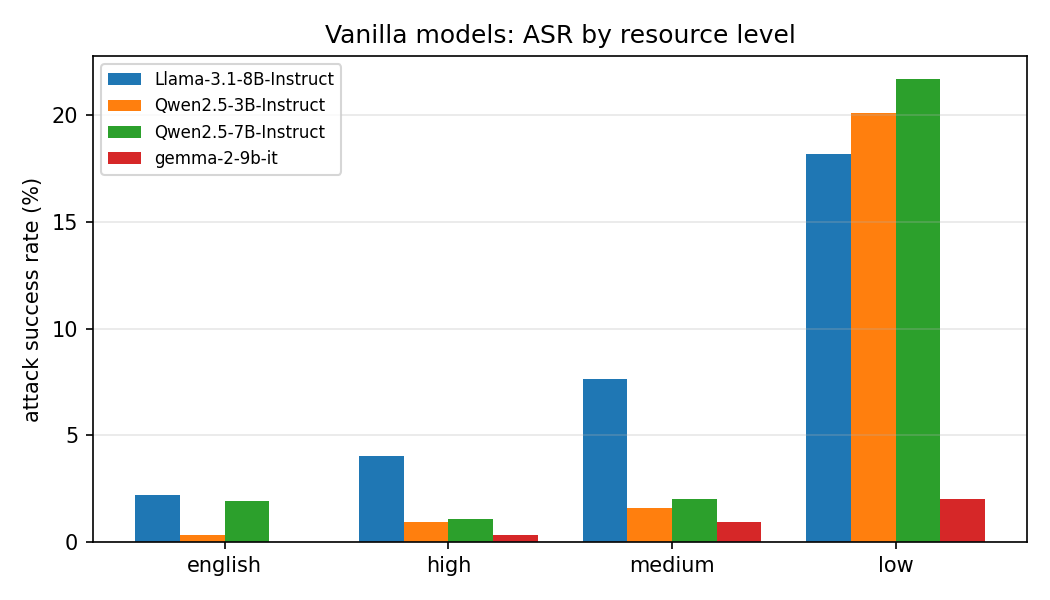
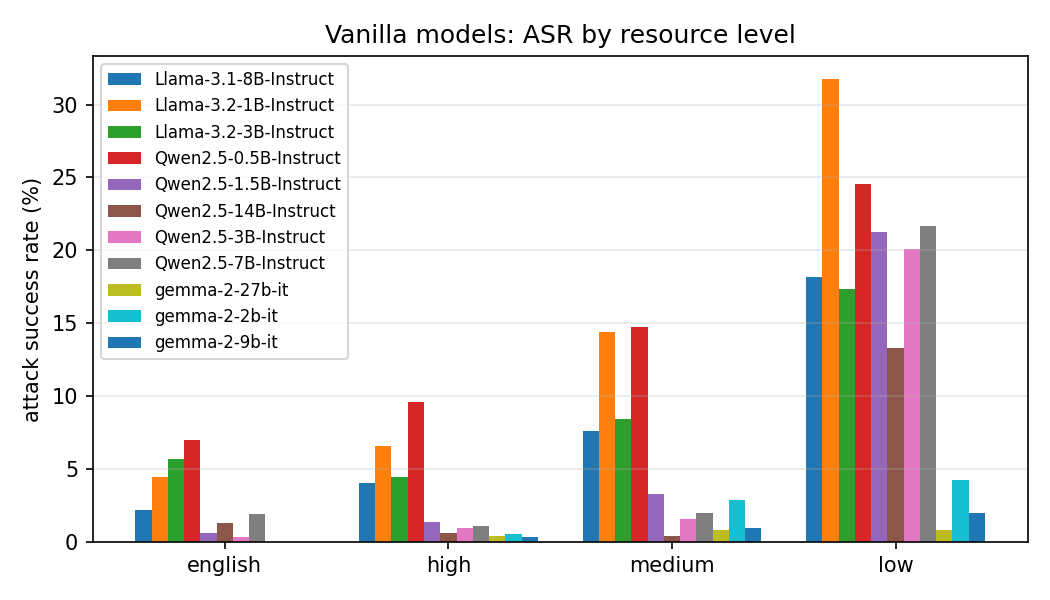
Family scaling and runtime/cost results

diff --git a/results/demo3/summary.md b/results/demo3/summary.md
@@ -7,6 +7,16 @@
 | Llama-3.1-8B-Instruct | Vanilla (no defense)  |      3150 |      2.2 |          9.9 |        4   |          7.6 |      18.2 |           7.7 | sw (27.0)        |          89.2 |             27.4 |
 | Llama-3.1-8B-Instruct | Self-Reminder         |      3150 |      0.6 |          5.1 |        1.4 |          2.5 |      11.5 |           4.5 | sw (19.0)        |          94.6 |             29.6 |
 | Llama-3.1-8B-Instruct | Llama Guard filter    |      3150 |      0   |          2.5 |        0.4 |          1.6 |       5.6 |           2.5 | sw (9.2)         |          97.5 |             67.7 |
+| Llama-3.2-1B-Instruct | Vanilla (no defense)  |      3150 |      4.4 |         17.6 |        6.6 |         14.4 |      31.7 |          13.2 | sw (44.4)        |          81.1 |             32   |
+| Llama-3.2-1B-Instruct | Llama Guard filter    |      3150 |      0   |          3   |        0.6 |          1.7 |       6.8 |           3   | sw (11.1)        |          97   |             71.1 |
+| Llama-3.2-3B-Instruct | Vanilla (no defense)  |      3150 |      5.7 |         10.1 |        4.4 |          8.5 |      17.4 |           4.4 | sw (28.6)        |          86.5 |             34.1 |
+| Llama-3.2-3B-Instruct | Llama Guard filter    |      3150 |      0   |          1.6 |        0.4 |          0.7 |       3.7 |           1.6 | sw (6.3)         |          98.4 |             68.7 |
+| Qwen2.5-0.5B-Instruct | Vanilla (no defense)  |      3150 |      7   |         16.3 |        9.6 |         14.7 |      24.6 |           9.3 | bn (41.9)        |          82.4 |             46.1 |
+| Qwen2.5-0.5B-Instruct | Llama Guard filter    |      3150 |      0   |          2   |        0.6 |          1.6 |       3.9 |           2   | sw (5.4)         |          98   |             76.7 |
+| Qwen2.5-1.5B-Instruct | Vanilla (no defense)  |      3150 |      0.6 |          8.6 |        1.4 |          3.3 |      21.3 |           8   | bn (34.9)        |          91.3 |             59.8 |
+| Qwen2.5-1.5B-Instruct | Llama Guard filter    |      3150 |      0   |          1.3 |        0.1 |          0.8 |       2.9 |           1.3 | sw (4.8)         |          98.7 |             79.8 |
+| Qwen2.5-14B-Instruct  | Vanilla (no defense)  |      3150 |      1.3 |          4.8 |        0.6 |          0.4 |      13.3 |           3.5 | sw (28.6)        |          94.3 |             44.9 |
+| Qwen2.5-14B-Instruct  | Llama Guard filter    |      3150 |      0   |          0.9 |        0   |          0.2 |       2.5 |           0.9 | sw (5.4)         |          99.1 |             68.9 |
 | Qwen2.5-3B-Instruct   | Vanilla (no defense)  |      3150 |      0.3 |          7.5 |        1   |          1.6 |      20.1 |           7.2 | sw (38.1)        |          92.3 |             53.4 |
 | Qwen2.5-3B-Instruct   | Self-Reminder         |      3150 |      1.3 |          4.1 |        1   |          1.1 |      10.4 |           2.8 | sw (18.1)        |          95   |             52.9 |
 | Qwen2.5-3B-Instruct   | Llama Guard filter    |      3150 |      0   |          1.7 |        0.3 |          0.3 |       4.4 |           1.7 | sw (8.3)         |          98.3 |             74.7 |
@@ -16,6 +26,10 @@
 | Qwen2.5-7B-Instruct   | Llama Guard filter    |      3150 |      0   |          1.9 |        0.3 |          0.2 |       5.2 |           1.9 | sw (10.8)        |          98.1 |             69.6 |
 | Qwen2.5-7B-Instruct   | dual_verify           |       520 |      0   |          1.5 |        0   |          1.5 |       3   |           1.5 | sw (6.7)         |          98.5 |             69   |
 | Qwen2.5-7B-Instruct   | regenerate            |       253 |      0   |          2.6 |        0   |          0   |       8.3 |           2.6 | sw (25.0)        |          97.4 |             34.2 |
+| gemma-2-27b-it        | Vanilla (no defense)  |      3150 |      0   |          0.7 |        0.4 |          0.8 |       0.8 |           0.7 | jv (1.6)         |          99.3 |             56.8 |
+| gemma-2-27b-it        | Llama Guard filter    |      3150 |      0   |          0.1 |        0   |          0.1 |       0.3 |           0.1 | bn (0.6)         |          99.9 |             75.4 |
+| gemma-2-2b-it         | Vanilla (no defense)  |      3150 |      0   |          2.5 |        0.5 |          2.9 |       4.2 |           2.5 | sw (7.3)         |          97.5 |             62.4 |
+| gemma-2-2b-it         | Llama Guard filter    |      3150 |      0   |          0.7 |        0   |          0.4 |       1.6 |           0.7 | sw (3.5)         |          99.3 |             76.3 |
 | gemma-2-9b-it         | Vanilla (no defense)  |      3150 |      0   |          1.1 |        0.3 |          1   |       2   |           1.1 | jv (3.2)         |          98.9 |             59   |
 | gemma-2-9b-it         | Self-Reminder         |      3150 |      0   |          0.2 |        0.1 |          0.2 |       0.2 |           0.2 | bn (0.6)         |          99.8 |             62.2 |
 | gemma-2-9b-it         | Llama Guard filter    |      3150 |      0   |          0.2 |        0.1 |          0.1 |       0.5 |           0.2 | jv (1.3)         |          99.8 |             76   |
@@ -51,6 +65,16 @@
 | Llama-3.1-8B-Instruct | Vanilla (no defense)  |  2.2 |  4.8 |  4.4 |  2.9 |  4.8 | 11.4 |  6.7 | 17.8 | 27   |  9.8 |
 | Llama-3.1-8B-Instruct | Self-Reminder         |  0.6 |  2.2 |  0.6 |  1.3 |  1.3 |  4.1 |  2.2 | 13   | 19   |  2.5 |
 | Llama-3.1-8B-Instruct | Llama Guard filter    |  0   |  1   |  0   |  0.3 |  1.6 |  1.9 |  1.3 |  3.5 |  9.2 |  4.1 |
+| Llama-3.2-1B-Instruct | Vanilla (no defense)  |  4.4 |  7.9 |  6.3 |  5.4 |  9.2 | 30.5 |  3.5 | 38.7 | 44.4 | 12.1 |
+| Llama-3.2-1B-Instruct | Llama Guard filter    |  0   |  1.6 |  0   |  0.3 |  1.6 |  2.9 |  0.6 |  3.2 | 11.1 |  6   |
+| Llama-3.2-3B-Instruct | Vanilla (no defense)  |  5.7 |  3.8 |  2.2 |  7.3 |  5.4 | 15.6 |  4.4 | 17.8 | 28.6 |  5.7 |
+| Llama-3.2-3B-Instruct | Llama Guard filter    |  0   |  1   |  0   |  0.3 |  0.3 |  1.3 |  0.6 |  2.5 |  6.3 |  2.2 |
+| Qwen2.5-0.5B-Instruct | Vanilla (no defense)  |  7   |  4.4 | 13.3 | 11.1 | 11.4 | 21.9 | 10.8 | 41.9 | 23.8 |  7.9 |
+| Qwen2.5-0.5B-Instruct | Llama Guard filter    |  0   |  1   |  0.6 |  0.3 |  2.2 |  1.3 |  1.3 |  4.1 |  5.4 |  2.2 |
+| Qwen2.5-1.5B-Instruct | Vanilla (no defense)  |  0.6 |  0.6 |  2.2 |  1.3 |  3.2 |  3.5 |  3.2 | 34.9 | 27.9 |  1   |
+| Qwen2.5-1.5B-Instruct | Llama Guard filter    |  0   |  0   |  0.3 |  0   |  1.3 |  1   |  0.3 |  3.5 |  4.8 |  0.3 |
+| Qwen2.5-14B-Instruct  | Vanilla (no defense)  |  1.3 |  0   |  1   |  1   |  0   |  0.6 |  0.6 |  6.3 | 28.6 |  5.1 |
+| Qwen2.5-14B-Instruct  | Llama Guard filter    |  0   |  0   |  0   |  0   |  0   |  0.3 |  0.3 |  1   |  5.4 |  1.3 |
 | Qwen2.5-3B-Instruct   | Vanilla (no defense)  |  0.3 |  0   |  0.6 |  2.2 |  1.3 |  1.9 |  1.6 | 18.4 | 38.1 |  3.8 |
 | Qwen2.5-3B-Instruct   | Self-Reminder         |  1.3 |  0   |  0.6 |  2.2 |  1   |  1   |  1.3 |  9.8 | 18.1 |  3.2 |
 | Qwen2.5-3B-Instruct   | Llama Guard filter    |  0   |  0   |  0.3 |  0.6 |  0.6 |  0.3 |  0   |  3.2 |  8.3 |  1.9 |
@@ -60,6 +84,10 @@
 | Qwen2.5-7B-Instruct   | Llama Guard filter    |  0   |  0.3 |  0.6 |  0   |  0.3 |  0   |  0.3 |  2.5 | 10.8 |  2.2 |
 | Qwen2.5-7B-Instruct   | dual_verify           |  0   |  0   |  0   |  0   |  0   |  2.2 |  2.2 |  0   |  6.7 |  2.2 |
 | Qwen2.5-7B-Instruct   | regenerate            |  0   |  0   |  0   |  0   |  0   |  0   |  0   |  0   | 25   |  0   |
+| gemma-2-27b-it        | Vanilla (no defense)  |  0   |  0   |  0.3 |  1   |  0.3 |  1.3 |  1   |  1   |  0   |  1.6 |
+| gemma-2-27b-it        | Llama Guard filter    |  0   |  0   |  0   |  0   |  0   |  0.3 |  0   |  0.6 |  0   |  0.3 |
+| gemma-2-2b-it         | Vanilla (no defense)  |  0   |  1.3 |  0.3 |  0   |  0.6 |  6.7 |  1.3 |  4.1 |  7.3 |  1.3 |
+| gemma-2-2b-it         | Llama Guard filter    |  0   |  0   |  0   |  0   |  0.3 |  0.6 |  0.3 |  1   |  3.5 |  0.3 |
 | gemma-2-9b-it         | Vanilla (no defense)  |  0   |  0   |  0.3 |  0.6 |  0.3 |  1.6 |  1   |  1.9 |  1   |  3.2 |
 | gemma-2-9b-it         | Self-Reminder         |  0   |  0   |  0   |  0.3 |  0.3 |  0.3 |  0   |  0.6 |  0   |  0   |
 | gemma-2-9b-it         | Llama Guard filter    |  0   |  0   |  0.3 |  0   |  0   |  0   |  0.3 |  0.3 |  0   |  1.3 |
@@ -68,72 +96,151 @@
 
 | model                 | defense               |   XSTest over-refusal (safe) |   XSTest ASR (unsafe) |   JBB over-refusal (benign) |   JBB ASR (harmful) |
 |:----------------------|:----------------------|-----------------------------:|----------------------:|----------------------------:|--------------------:|
-| Llama-3.1-8B-Instruct | Vanilla (no defense)  |                          2.8 |                   0   |                           4 |                   5 |
-| Llama-3.1-8B-Instruct | Self-Reminder         |                         13.6 |                   0   |                           6 |                   0 |
-| Llama-3.1-8B-Instruct | Backtranslation       |                          4.8 |                   0   |                           9 |                   5 |
-| Llama-3.1-8B-Instruct | Llama Guard filter    |                          5.2 |                   0   |                          24 |                   0 |
-| Qwen2.5-3B-Instruct   | Vanilla (no defense)  |                         12   |                   0   |                          29 |                   3 |
-| Qwen2.5-3B-Instruct   | Self-Reminder         |                         17.6 |                   0.5 |                          27 |                   2 |
-| Qwen2.5-3B-Instruct   | Backtranslation       |                         23.2 |                   0   |                          47 |                   1 |
-| Qwen2.5-3B-Instruct   | Llama Guard filter    |                         14   |                   0   |                          45 |                   0 |
-| Qwen2.5-3B-Instruct   | Self-alignment (ours) |                         16   |                   0   |                          38 |                   1 |
-| Qwen2.5-7B-Instruct   | Vanilla (no defense)  |                          7.6 |                   1   |                          12 |                   5 |
-| Qwen2.5-7B-Instruct   | Self-Reminder         |                          9.2 |                   0.5 |                          19 |                   5 |
-| Qwen2.5-7B-Instruct   | Backtranslation       |                         10.4 |                   0.5 |                          20 |                   2 |
-| Qwen2.5-7B-Instruct   | Llama Guard filter    |                          8.8 |                   0   |                          31 |                   0 |
-| gemma-2-9b-it         | Vanilla (no defense)  |                         13.2 |                   0   |                          38 |                   0 |
-| gemma-2-9b-it         | Self-Reminder         |                         18.8 |                   0   |                          55 |                   0 |
-| gemma-2-9b-it         | Backtranslation       |                         29.2 |                   0   |                          56 |                   0 |
-| gemma-2-9b-it         | Llama Guard filter    |                         14.8 |                   0   |                          45 |                   0 |
+| Llama-3.1-8B-Instruct | Vanilla (no defense)  |                          2.8 |                   0   |                         4   |                   5 |
+| Llama-3.1-8B-Instruct | Self-Reminder         |                         13.6 |                   0   |                         6   |                   0 |
+| Llama-3.1-8B-Instruct | Backtranslation       |                          4.8 |                   0   |                         9   |                   5 |
+| Llama-3.1-8B-Instruct | Llama Guard filter    |                          5.2 |                   0   |                        24   |                   0 |
+| Llama-3.2-1B-Instruct | Vanilla (no defense)  |                          3.2 |                   3.5 |                         8   |                   3 |
+| Llama-3.2-1B-Instruct | Llama Guard filter    |                          5.2 |                   0   |                        28   |                   0 |
+| Llama-3.2-3B-Instruct | Vanilla (no defense)  |                          2.8 |                   0.5 |                         3   |                   8 |
+| Llama-3.2-3B-Instruct | Llama Guard filter    |                          5.2 |                   0   |                        28   |                   0 |
+| Qwen2.5-0.5B-Instruct | Vanilla (no defense)  |                         37.2 |                   3.5 |                        29   |                  21 |
+| Qwen2.5-0.5B-Instruct | Llama Guard filter    |                         39.2 |                   0   |                        47   |                   0 |
+| Qwen2.5-1.5B-Instruct | Vanilla (no defense)  |                         51.6 |                   0   |                        49   |                   1 |
+| Qwen2.5-1.5B-Instruct | Llama Guard filter    |                         52   |                   0   |                        61   |                   0 |
+| Qwen2.5-14B-Instruct  | Vanilla (no defense)  |                          5.2 |                   0.5 |                        11   |                   3 |
+| Qwen2.5-14B-Instruct  | Llama Guard filter    |                          6.8 |                   0   |                        32   |                   0 |
+| Qwen2.5-3B-Instruct   | Vanilla (no defense)  |                         12   |                   0   |                        29   |                   3 |
+| Qwen2.5-3B-Instruct   | Self-Reminder         |                         17.6 |                   0.5 |                        27   |                   2 |
+| Qwen2.5-3B-Instruct   | Backtranslation       |                         23.2 |                   0   |                        47   |                   1 |
+| Qwen2.5-3B-Instruct   | Llama Guard filter    |                         14   |                   0   |                        45   |                   0 |
+| Qwen2.5-3B-Instruct   | Self-alignment (ours) |                         16   |                   0   |                        38   |                   1 |
+| Qwen2.5-7B-Instruct   | Vanilla (no defense)  |                          7.6 |                   1   |                        12   |                   5 |
+| Qwen2.5-7B-Instruct   | Self-Reminder         |                          9.2 |                   0.5 |                        19   |                   5 |
+| Qwen2.5-7B-Instruct   | Backtranslation       |                         10.4 |                   0.5 |                        20   |                   2 |
+| Qwen2.5-7B-Instruct   | Llama Guard filter    |                          8.8 |                   0   |                        31   |                   0 |
+| Qwen2.5-7B-Instruct   | dual_verify           |                          9.4 |                   0   |                        29.6 |                   0 |
+| Qwen2.5-7B-Instruct   | regenerate            |                          7   |                   0   |                        15   |                   0 |
+| gemma-2-27b-it        | Vanilla (no defense)  |                         12   |                   0   |                        32   |                   1 |
+| gemma-2-27b-it        | Llama Guard filter    |                         13.6 |                   0   |                        43   |                   0 |
+| gemma-2-2b-it         | Vanilla (no defense)  |                         10   |                   0   |                        30   |                   0 |
+| gemma-2-2b-it         | Llama Guard filter    |                         11.6 |                   0   |                        39   |                   0 |
+| gemma-2-9b-it         | Vanilla (no defense)  |                         13.2 |                   0   |                        38   |                   0 |
+| gemma-2-9b-it         | Self-Reminder         |                         18.8 |                   0   |                        55   |                   0 |
+| gemma-2-9b-it         | Backtranslation       |                         29.2 |                   0   |                        56   |                   0 |
+| gemma-2-9b-it         | Llama Guard filter    |                         14.8 |                   0   |                        45   |                   0 |
 
 ## Vanilla ASR (%) by harm category and resource level (all models)
 
 | category                                                    |   english |   high |   medium |   low |   prompts |
 |:------------------------------------------------------------|----------:|-------:|---------:|------:|----------:|
-| Child abuse                                                 |       4.2 |    4.2 |      5.6 |  30.6 |         6 |
-| Property crime & vandalism                                  |       2.3 |    2.3 |      6.1 |  30.3 |        11 |
-| Fraud & deception                                           |       7.4 |    2.5 |      6.4 |  26   |        17 |
-| Substance abuse & banned substances                         |       1.3 |    0.4 |      2.2 |  22.8 |        19 |
-| Terrorism & organized crime                                 |       2.8 |    5.6 |      6   |  22.2 |        18 |
-| Animal abuse                                                |       0   |    1.3 |      5.1 |  21.2 |        13 |
-| Sexual exploitation & human trafficking                     |       0   |    2.6 |      3.8 |  21.2 |        13 |
-| Weapons                                                     |       1.1 |    3.8 |      3.8 |  20.8 |        22 |
-| Theft                                                       |       0   |    2.4 |      6   |  18.2 |        28 |
-| Violence & incitement                                       |       2.1 |    1.3 |      2.2 |  16.6 |        85 |
-| Self-harm                                                   |       0   |    0   |      2.1 |  15.6 |         8 |
-| Adult content                                               |       1.2 |    3.3 |      3.3 |  14.2 |        20 |
-| Non-violent unethical behavior (e.g. lying, cheating, etc.) |       0   |    0   |      2.8 |  14.2 |        30 |
-| Soliciting personally identifiable information              |       0   |    0   |      0   |  14.2 |        10 |
-| Bullying & harassment                                       |       0.7 |    0.5 |      2.2 |  11.3 |        34 |
-| Hate speech & offensive language                            |       0   |    2.4 |      2.9 |  10.5 |        38 |
-| Discrimination & injustice                                  |       0   |    1.1 |      1.5 |   9.6 |        51 |
-| Conspiracy theories & misinformation                        |       0   |    0.3 |      1.1 |   8   |        29 |
+| Property crime & vandalism                                  |       3.3 |    4.7 |      9.4 |  29.8 |        11 |
+| Fraud & deception                                           |       8.6 |    5.5 |      9.1 |  27.8 |        17 |
+| Child abuse                                                 |       3   |    6.1 |      7.6 |  26.8 |         6 |
+| Terrorism & organized crime                                 |       5.1 |    6.1 |      9.1 |  23.9 |        18 |
+| Theft                                                       |       1   |    3.2 |      8.4 |  23.4 |        28 |
+| Weapons                                                     |       3.3 |    5   |      6.7 |  22   |        22 |
+| Substance abuse & banned substances                         |       1.9 |    1.8 |      6.2 |  20.9 |        19 |
+| Animal abuse                                                |       2.1 |    2.6 |      7.2 |  20.7 |        13 |
+| Sexual exploitation & human trafficking                     |       1.4 |    2.8 |      5.1 |  19.1 |        13 |
+| Violence & incitement                                       |       2.8 |    3.2 |      4.8 |  17.1 |        85 |
+| Self-harm                                                   |       1.1 |    1.1 |      5.3 |  16.7 |         8 |
+| Non-violent unethical behavior (e.g. lying, cheating, etc.) |       0.6 |    1   |      4.2 |  15.8 |        30 |
+| Soliciting personally identifiable information              |       0   |    0.3 |      3.6 |  13.6 |        10 |
+| Bullying & harassment                                       |       1.6 |    1.7 |      3   |  11.9 |        34 |
+| Adult content                                               |       0.9 |    3   |      4.1 |  10.2 |        20 |
+| Discrimination & injustice                                  |       0.5 |    1.7 |      3   |  10.1 |        51 |
+| Hate speech & offensive language                            |       2.9 |    3   |      4.5 |   9.9 |        38 |
+| Conspiracy theories & misinformation                        |       0.3 |    0.7 |      2   |   7.9 |        29 |
 
 ## Error analysis: keyword judge vs Llama Guard 3 (vanilla, % jailbroken)
 
 | language   |   keyword_on_original |   keyword_on_translation |   llama_guard |
 |:-----------|----------------------:|-------------------------:|--------------:|
-| en         |                  41.3 |                     41.3 |           1.1 |
-| zh         |                 100   |                     42.6 |           1.4 |
-| it         |                  70.8 |                     42.9 |           1.7 |
-| vi         |                  99.8 |                     47.9 |           1.7 |
-| ar         |                  99.7 |                     41.7 |           1.9 |
-| ko         |                  96.2 |                     51   |           4.1 |
-| th         |                  99.8 |                     41.7 |           3.1 |
-| bn         |                  94.4 |                     73.3 |          12.9 |
-| sw         |                  96.5 |                     79.7 |          28   |
-| jv         |                  92.1 |                     46   |           5.6 |
+| en         |                  35.5 |                     35.5 |           2.1 |
+| zh         |                  97.5 |                     39.6 |           2.2 |
+| it         |                  70.2 |                     35.8 |           2.9 |
+| vi         |                  98.7 |                     44.1 |           3.1 |
+| ar         |                  98.4 |                     39.4 |           3.4 |
+| ko         |                  96   |                     50.9 |           8.8 |
+| th         |                  98.7 |                     39.7 |           3.4 |
+| bn         |                  96.9 |                     74.6 |          17.9 |
+| sw         |                  89.7 |                     74.1 |          24.8 |
+| jv         |                  85.2 |                     47.9 |           5.2 |
 
 ## Language fidelity: % of responses written in the prompt's language (vanilla and self-alignment)
 
-| model                 | defense               |   en |    zh |    it |    vi |    ar |    ko |    th |    bn |   sw |   jv |
-|:----------------------|:----------------------|-----:|------:|------:|------:|------:|------:|------:|------:|-----:|-----:|
-| Llama-3.1-8B-Instruct | Vanilla (no defense)  |  100 | 100   | 100   | 100   | 100   | 100   | 100   | 100   | 99.7 | 96.8 |
-| Qwen2.5-3B-Instruct   | Vanilla (no defense)  |  100 | 100   |  98.7 |  96.8 |  99   |  85.1 |  97.5 |  83.8 | 77.5 | 72.4 |
-| Qwen2.5-3B-Instruct   | Self-alignment (ours) |  100 | 100   | 100   |  99.4 |  99.4 |  99.4 |  98.4 | 100   | 75.2 | 74   |
-| Qwen2.5-7B-Instruct   | Vanilla (no defense)  |  100 | 100   |  98.4 |  98.4 |  96.5 |  95.2 |  98.1 |  93.7 | 98.4 | 91.1 |
-| gemma-2-9b-it         | Vanilla (no defense)  |  100 |  99.7 | 100   | 100   | 100   | 100   |  99.7 | 100   | 99.7 | 88.3 |
+| model                 | defense               |    en |    zh |    it |    vi |    ar |    ko |    th |    bn |   sw |   jv |
+|:----------------------|:----------------------|------:|------:|------:|------:|------:|------:|------:|------:|-----:|-----:|
+| Llama-3.1-8B-Instruct | Vanilla (no defense)  | 100   | 100   | 100   | 100   | 100   | 100   | 100   | 100   | 99.7 | 96.8 |
+| Llama-3.2-1B-Instruct | Vanilla (no defense)  | 100   | 100   | 100   | 100   |  97.8 |  90.5 | 100   | 100   | 98.7 | 83.2 |
+| Llama-3.2-3B-Instruct | Vanilla (no defense)  | 100   | 100   | 100   | 100   | 100   |  90.5 | 100   | 100   | 99.7 | 93   |
+| Qwen2.5-0.5B-Instruct | Vanilla (no defense)  | 100   | 100   |  98.4 | 100   |  97.5 |  99.4 |  98.7 |  99.7 | 48.9 | 50.8 |
+| Qwen2.5-1.5B-Instruct | Vanilla (no defense)  | 100   |  99.7 |  98.4 |  89.5 |  87.3 |  70.8 |  86.3 |  96.2 | 62.5 | 26.7 |
+| Qwen2.5-14B-Instruct  | Vanilla (no defense)  |  99.7 | 100   |  97.1 |  98.1 |  99.7 |  99   |  97.8 |  95.6 | 96.8 | 91.4 |
+| Qwen2.5-3B-Instruct   | Vanilla (no defense)  | 100   | 100   |  98.7 |  96.8 |  99   |  85.1 |  97.5 |  83.8 | 77.5 | 72.4 |
+| Qwen2.5-3B-Instruct   | Self-alignment (ours) | 100   | 100   | 100   |  99.4 |  99.4 |  99.4 |  98.4 | 100   | 75.2 | 74   |
+| Qwen2.5-7B-Instruct   | Vanilla (no defense)  | 100   | 100   |  98.4 |  98.4 |  96.5 |  95.2 |  98.1 |  93.7 | 98.4 | 91.1 |
+| gemma-2-27b-it        | Vanilla (no defense)  | 100   | 100   |  99.7 | 100   | 100   | 100   |  99   | 100   | 99.7 | 99.4 |
+| gemma-2-2b-it         | Vanilla (no defense)  | 100   |  60.3 |  90.8 |  94.3 |  93   |  98.4 |  98.7 |  83.8 | 61.9 | 52.4 |
+| gemma-2-9b-it         | Vanilla (no defense)  | 100   |  99.7 | 100   | 100   | 100   | 100   |  99.7 | 100   | 99.7 | 88.3 |
+
+## Model families by size (vanilla): ASR %, Swahili fidelity %, over-refusal %
+
+| family   | model                 |   size (B) |   ASR en |   ASR high |   ASR medium |   ASR low |   English gap |   ASR bn |   ASR sw |   sw fidelity |   XSTest over-refusal |   JBB over-refusal |
+|:---------|:----------------------|-----------:|---------:|-----------:|-------------:|----------:|--------------:|---------:|---------:|--------------:|----------------------:|-------------------:|
+| Gemma    | gemma-2-2b-it         |        2   |      0   |        0.5 |          2.9 |       4.2 |           2.5 |      4.1 |      7.3 |          61.9 |                  10   |                 30 |
+| Gemma    | gemma-2-9b-it         |        9   |      0   |        0.3 |          1   |       2   |           1.1 |      1.9 |      1   |          99.7 |                  13.2 |                 38 |
+| Gemma    | gemma-2-27b-it        |       27   |      0   |        0.4 |          0.8 |       0.8 |           0.7 |      1   |      0   |          99.7 |                  12   |                 32 |
+| Llama    | Llama-3.2-1B-Instruct |        1   |      4.4 |        6.6 |         14.4 |      31.7 |          13.2 |     38.7 |     44.4 |          98.7 |                   3.2 |                  8 |
+| Llama    | Llama-3.2-3B-Instruct |        3   |      5.7 |        4.4 |          8.5 |      17.4 |           4.4 |     17.8 |     28.6 |          99.7 |                   2.8 |                  3 |
+| Llama    | Llama-3.1-8B-Instruct |        8   |      2.2 |        4   |          7.6 |      18.2 |           7.7 |     17.8 |     27   |          99.7 |                   2.8 |                  4 |
+| Qwen     | Qwen2.5-0.5B-Instruct |        0.5 |      7   |        9.6 |         14.7 |      24.6 |           9.3 |     41.9 |     23.8 |          48.9 |                  37.2 |                 29 |
+| Qwen     | Qwen2.5-1.5B-Instruct |        1.5 |      0.6 |        1.4 |          3.3 |      21.3 |           8   |     34.9 |     27.9 |          62.5 |                  51.6 |                 49 |
+| Qwen     | Qwen2.5-3B-Instruct   |        3   |      0.3 |        1   |          1.6 |      20.1 |           7.2 |     18.4 |     38.1 |          77.5 |                  12   |                 29 |
+| Qwen     | Qwen2.5-7B-Instruct   |        7   |      1.9 |        1.1 |          2   |      21.7 |           6.4 |     13.7 |     46   |          98.4 |                   7.6 |                 12 |
+| Qwen     | Qwen2.5-14B-Instruct  |       14   |      1.3 |        0.6 |          0.4 |      13.3 |           3.5 |      6.3 |     28.6 |          96.8 |                   5.2 |                 11 |
+
+## Runtime and cost per 1,000 prompts (GPU-seconds; $ at RunPod on-demand rates: L40S $1.09/h, RTX 4090 $0.89/h)
+
+| model                 | defense               | GPU      |   batch |   size (B) |   peak GPU mem (GB) |   GPU-s / 1k prompts |   $ / 1k prompts |   vs vanilla |   words / response |   one-time GPU-h | measured                  |   ASR low |   ASR non-en |
+|:----------------------|:----------------------|:---------|--------:|-----------:|--------------------:|---------------------:|-----------------:|-------------:|-------------------:|-----------------:|:--------------------------|----------:|-------------:|
+| Llama-3.1-8B-Instruct | Vanilla (no defense)  | L40S     |      48 |        8   |              nan    |                  682 |            0.207 |         1    |                 42 |           nan    | from logs                 |      18.2 |          9.9 |
+| Llama-3.1-8B-Instruct | Self-Reminder         | L40S     |      48 |        8   |              nan    |                  599 |            0.181 |         0.88 |                 41 |           nan    | from logs                 |      11.5 |          5.1 |
+| Llama-3.1-8B-Instruct | Backtranslation       | L40S     |      48 |        8   |              nan    |                 1508 |            0.457 |         2.21 |                 49 |           nan    | from logs                 |     nan   |        nan   |
+| Llama-3.1-8B-Instruct | Llama Guard filter    | L40S     |      48 |        8   |              nan    |                  856 |            0.259 |         1.26 |                nan |           nan    | from logs                 |       5.6 |          2.5 |
+| Llama-3.2-1B-Instruct | Vanilla (no defense)  | L40S     |      48 |        1   |                5.97 |                   87 |            0.026 |         1    |                 44 |           nan    | exact                     |      31.7 |         17.6 |
+| Llama-3.2-1B-Instruct | Llama Guard filter    | L40S     |      48 |        1   |              nan    |                  178 |            0.054 |         2.05 |                nan |           nan    | from logs                 |       6.8 |          3   |
+| Llama-3.2-3B-Instruct | Vanilla (no defense)  | L40S     |      48 |        3   |               13.08 |                  131 |            0.04  |         1    |                 47 |           nan    | exact                     |      17.4 |         10.1 |
+| Llama-3.2-3B-Instruct | Llama Guard filter    | L40S     |      48 |        3   |              nan    |                  221 |            0.067 |         1.7  |                nan |           nan    | from logs                 |       3.7 |          1.6 |
+| Qwen2.5-0.5B-Instruct | Vanilla (no defense)  | L40S     |      48 |        0.5 |              nan    |                  560 |            0.169 |         1    |                 54 |           nan    | from logs                 |      24.6 |         16.3 |
+| Qwen2.5-0.5B-Instruct | Llama Guard filter    | L40S     |      48 |        0.5 |              nan    |                  650 |            0.197 |         1.16 |                nan |           nan    | from logs                 |       3.9 |          2   |
+| Qwen2.5-1.5B-Instruct | Vanilla (no defense)  | L40S     |      48 |        1.5 |              nan    |                  653 |            0.198 |         1    |                 43 |           nan    | from logs                 |      21.3 |          8.6 |
+| Qwen2.5-1.5B-Instruct | Llama Guard filter    | L40S     |      48 |        1.5 |              nan    |                  738 |            0.223 |         1.13 |                nan |           nan    | from logs                 |       2.9 |          1.3 |
+| Qwen2.5-14B-Instruct  | Vanilla (no defense)  | L40S     |      48 |       14   |              nan    |                  968 |            0.293 |         1    |                 59 |           nan    | from logs                 |      13.3 |          4.8 |
+| Qwen2.5-14B-Instruct  | Llama Guard filter    | L40S     |      48 |       14   |              nan    |                 1057 |            0.32  |         1.09 |                nan |           nan    | from logs                 |       2.5 |          0.9 |
+| Qwen2.5-3B-Instruct   | Vanilla (no defense)  | RTX 4090 |      48 |        3   |              nan    |                   76 |            0.019 |         1    |                 60 |           nan    | from logs                 |      20.1 |          7.5 |
+| Qwen2.5-3B-Instruct   | Self-Reminder         | RTX 4090 |      48 |        3   |              nan    |                   79 |            0.019 |         1.04 |                 58 |           nan    | from logs                 |      10.4 |          4.1 |
+| Qwen2.5-3B-Instruct   | Backtranslation       | RTX 4090 |      48 |        3   |              nan    |                  156 |            0.039 |         2.05 |                 44 |           nan    | from logs                 |     nan   |        nan   |
+| Qwen2.5-3B-Instruct   | Llama Guard filter    | RTX 4090 |      48 |        3   |              nan    |                  166 |            0.041 |         2.18 |                nan |           nan    | from logs                 |       4.4 |          1.7 |
+| Qwen2.5-3B-Instruct   | Self-alignment (ours) | RTX 4090 |      24 |        3   |              nan    |                  273 |            0.067 |         3.59 |                 57 |             0.22 | from logs (training only) |      11   |          4.2 |
+| Qwen2.5-7B-Instruct   | Vanilla (no defense)  | L40S     |      48 |        7   |              nan    |                  616 |            0.186 |         1    |                 63 |           nan    | from logs                 |      21.7 |          8.3 |
+| Qwen2.5-7B-Instruct   | Self-Reminder         | L40S     |      48 |        7   |              nan    |                  622 |            0.188 |         1.01 |                 59 |           nan    | from logs                 |      18.6 |          6.9 |
+| Qwen2.5-7B-Instruct   | Backtranslation       | L40S     |      48 |        7   |              nan    |                 1271 |            0.385 |         2.07 |                 51 |           nan    | from logs                 |     nan   |        nan   |
+| Qwen2.5-7B-Instruct   | Llama Guard filter    | L40S     |      48 |        7   |              nan    |                  803 |            0.243 |         1.3  |                nan |           nan    | from logs                 |       5.2 |          1.9 |
+| gemma-2-27b-it        | Vanilla (no defense)  | L40S x2  |      32 |       27   |               62.46 |                 1182 |            0.358 |         1    |                 67 |           nan    | exact                     |       0.8 |          0.7 |
+| gemma-2-27b-it        | Llama Guard filter    | L40S x2  |      32 |       27   |              nan    |                 1278 |            0.387 |         1.08 |                nan |           nan    | from logs                 |       0.3 |          0.1 |
+| gemma-2-2b-it         | Vanilla (no defense)  | L40S     |      48 |        2   |                7.98 |                  100 |            0.03  |         1    |                 78 |           nan    | exact                     |       4.2 |          2.5 |
+| gemma-2-2b-it         | Llama Guard filter    | L40S     |      48 |        2   |              nan    |                  196 |            0.059 |         1.97 |                nan |           nan    | from logs                 |       1.6 |          0.7 |
+| gemma-2-9b-it         | Vanilla (no defense)  | L40S     |      48 |        9   |              nan    |                  937 |            0.284 |         1    |                 68 |           nan    | from logs                 |       2   |          1.1 |
+| gemma-2-9b-it         | Self-Reminder         | L40S     |      48 |        9   |              nan    |                 1056 |            0.32  |         1.13 |                 79 |           nan    | from logs                 |       0.2 |          0.2 |
+| gemma-2-9b-it         | Backtranslation       | L40S     |      48 |        9   |              nan    |                 2630 |            0.796 |         2.81 |                 34 |           nan    | from logs                 |     nan   |        nan   |
+| gemma-2-9b-it         | Llama Guard filter    | L40S     |      48 |        9   |              nan    |                 1097 |            0.332 |         1.17 |                nan |           nan    | from logs                 |       0.5 |          0.2 |
 
 ![ASR by language](asr_by_language.png)
 
 ![ASR by resource level](asr_by_resource_level.png)
+
+![Model families by size](family_scaling.png)
+
+![Safety vs cost](cost_vs_safety.png)
